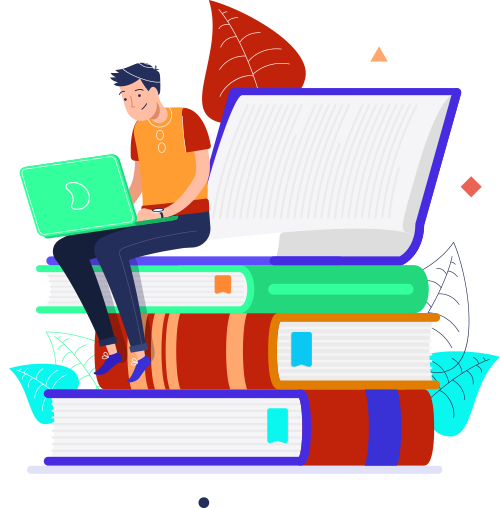
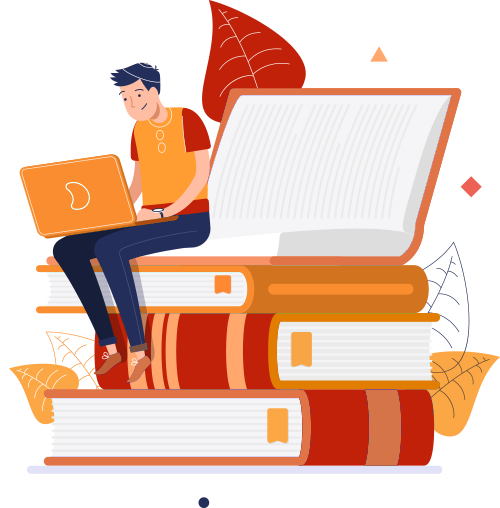
Added AnimatedPlants footer decoration and align accent colors to orange

diff --git a/src/components/footer/SiteFooter.tsx b/src/components/footer/SiteFooter.tsx
@@ -60,12 +60,12 @@ export default function SiteFooter() {
   const currentYear = new Date().getFullYear();
 
   return (
-    <footer ref={footerRef} className="relative z-[1] mt-auto">
+    <footer ref={footerRef} className="relative z-[60] mt-auto">
       <div className="relative">
         <div className="absolute right-0 top-[-64px]">
           <div className="flex justify-end px-[clamp(1.25rem,6vw,6rem)]">
             <Image
-              src="/images/plant-blue.svg"
+              src="/images/plant.svg"
               alt=""
               width={120}
               height={120}
@@ -86,7 +86,7 @@ export default function SiteFooter() {
           className="pointer-events-none absolute -right-[6%] bottom-[8%] h-[min(200px,40vw)] w-[min(200px,40vw)] rounded-full bg-accent-blue/10 blur-[65px]"
         />
 
-        <div className="relative mx-auto max-w-6xl px-[clamp(1.25rem,6vw,6rem)] py-12 lg:py-14">
+        <div className="relative mx-auto max-w-6xl px-6 py-12 lg:py-14">
           <div className="grid gap-10 lg:grid-cols-[2fr_1fr] lg:gap-12">
             <div className="grid gap-10 lg:grid-cols-2 lg:gap-8">
               <div data-footer-col>

diff --git a/src/components/academics/AcademicsIllustration.tsx b/src/components/academics/AcademicsIllustration.tsx
@@ -86,7 +86,7 @@ export default function AcademicsIllustration() {
         <div ref={floatInnerRef} className="relative">
           <div
             aria-hidden="true"
-            className="pointer-events-none absolute -right-6 top-[18%] h-24 w-24 rounded-full bg-accent-blue/10 blur-3xl"
+            className="pointer-events-none absolute -right-6 top-[18%] h-24 w-24 rounded-full bg-accent-orange/10 blur-3xl"
           />
           <div
             aria-hidden="true"
